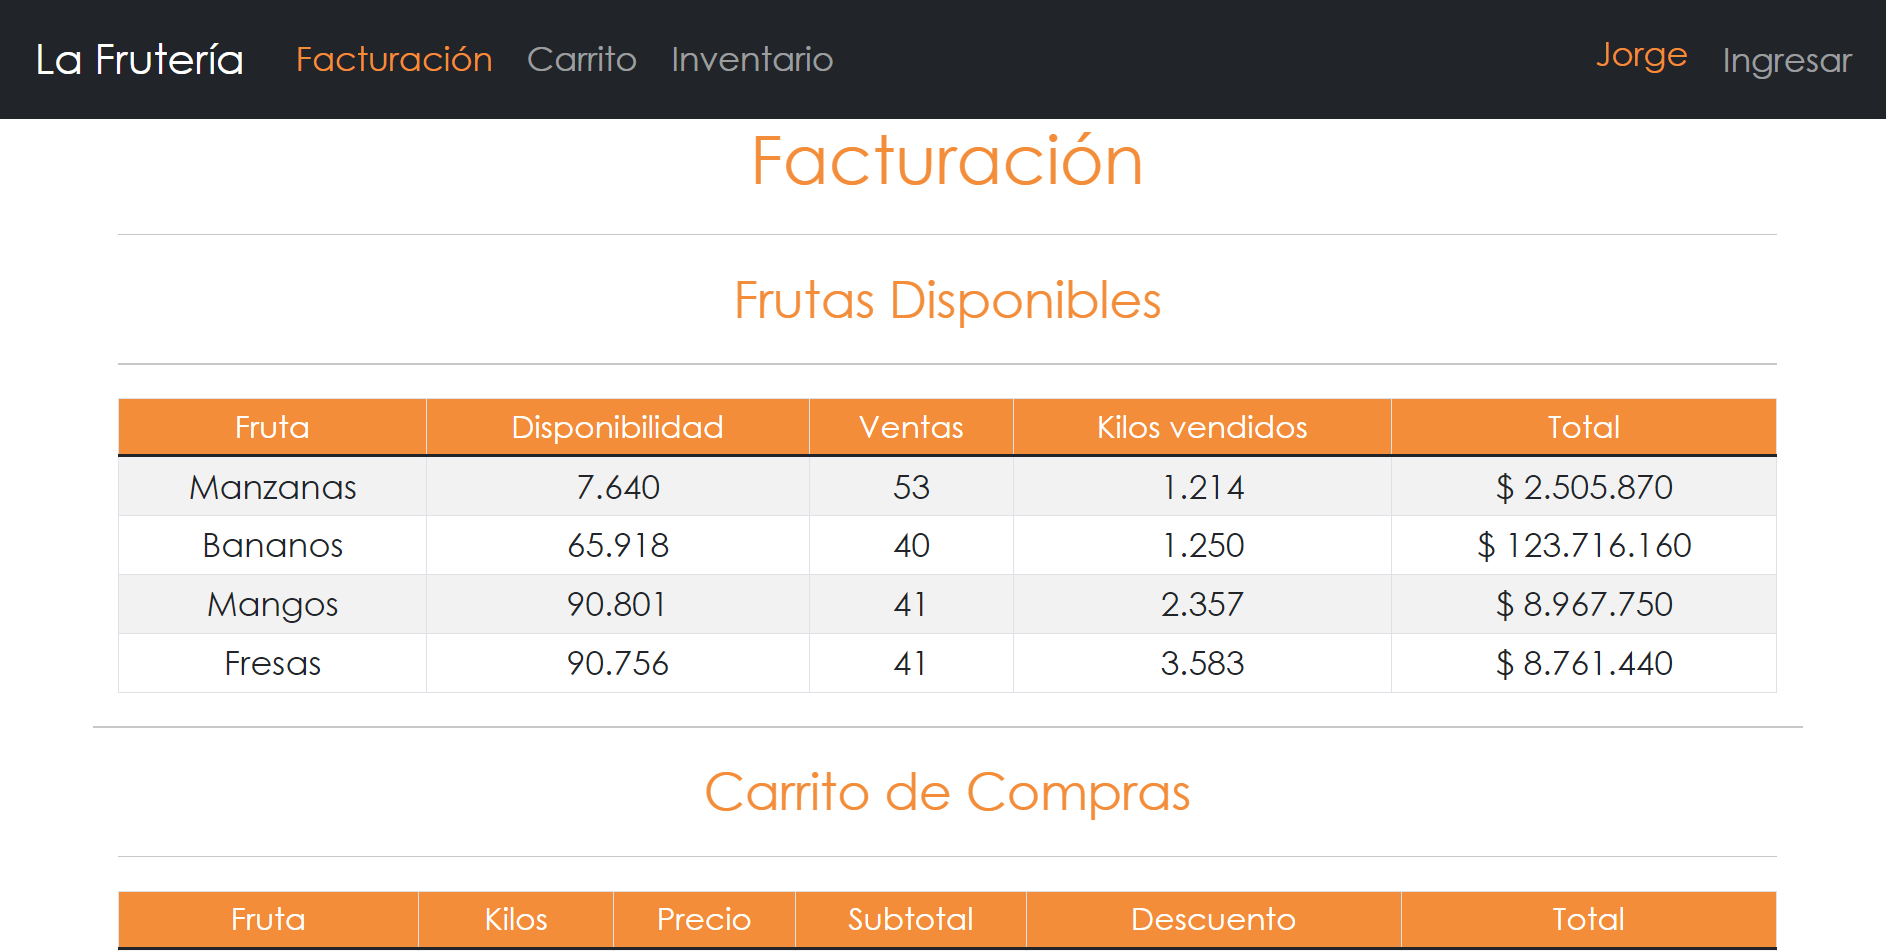
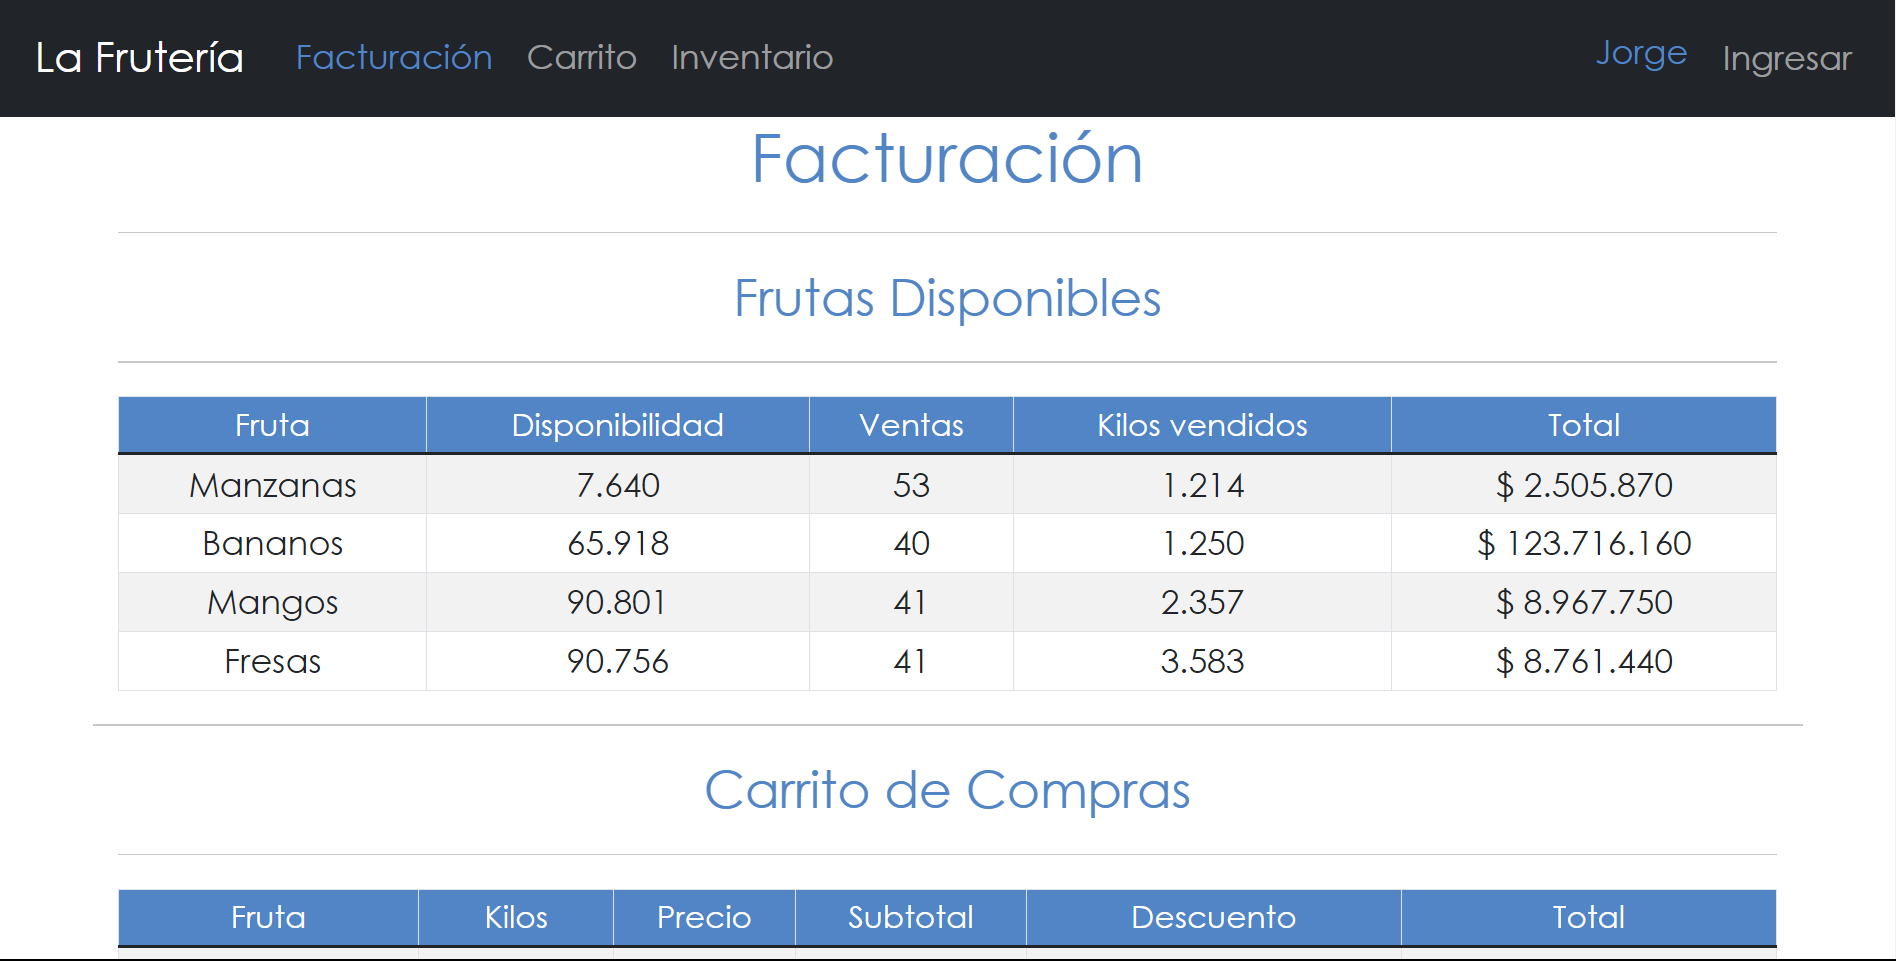
main

diff --git a/src/styles.css b/src/styles.css
@@ -1,7 +1,8 @@
 :root {
     --lightgray-color: #ddd;
     --dark-color: #212529;
-    --main-color: #f38d3a;
+    --main-color: #5285c5;
+    --orange-color: #f38d3a;
     --white-color: #fff;
 }
 
